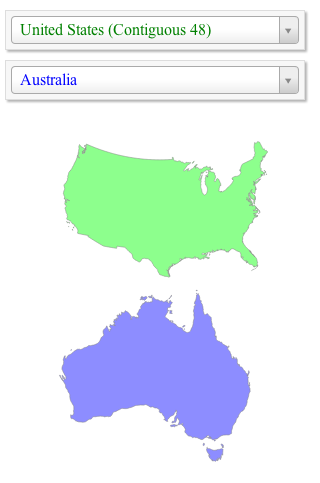
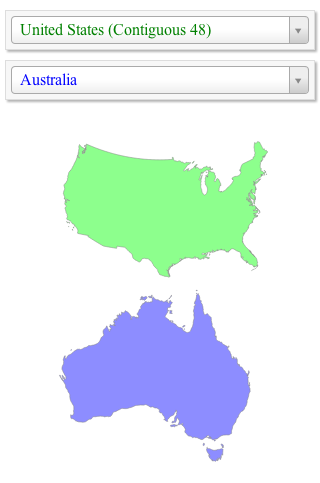
squeeze stats a litle more on mobile

Changed region(s): [[0.875, 0.0, 1.0, 0.2174]]

diff --git a/comparea/static/css/comparea.css b/comparea/static/css/comparea.css
@@ -81,9 +81,6 @@ html,body{
     width: 100%;
     display: table;
   }
-  .side-panel {
-    width: 90%;  /* hack! TODO: undo margins or move them into @media */
-  }
   .feature-panel .description {
     display: none;
   }
@@ -92,6 +89,9 @@ html,body{
   }
   .population {
     display: none;
+  }
+  .statistics p {
+    margin: 0.5em auto;
   }
 }
 
